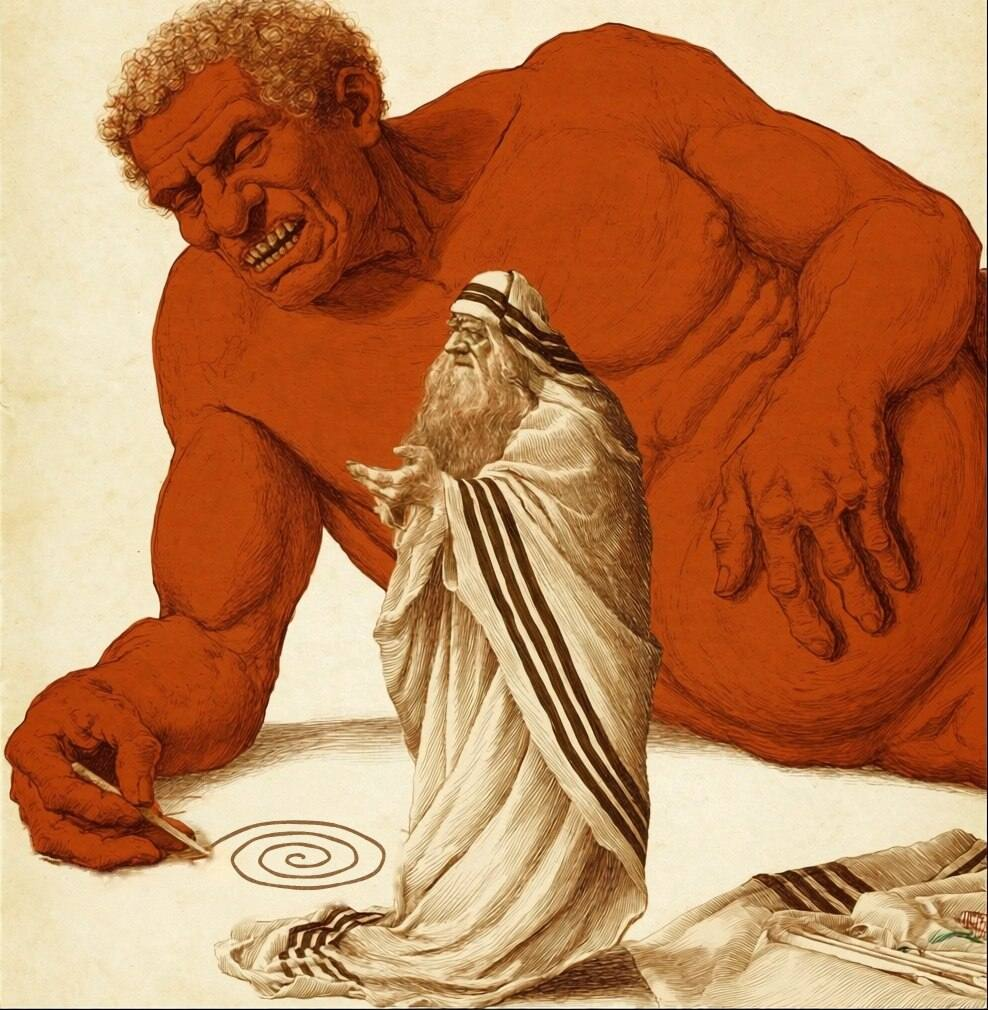
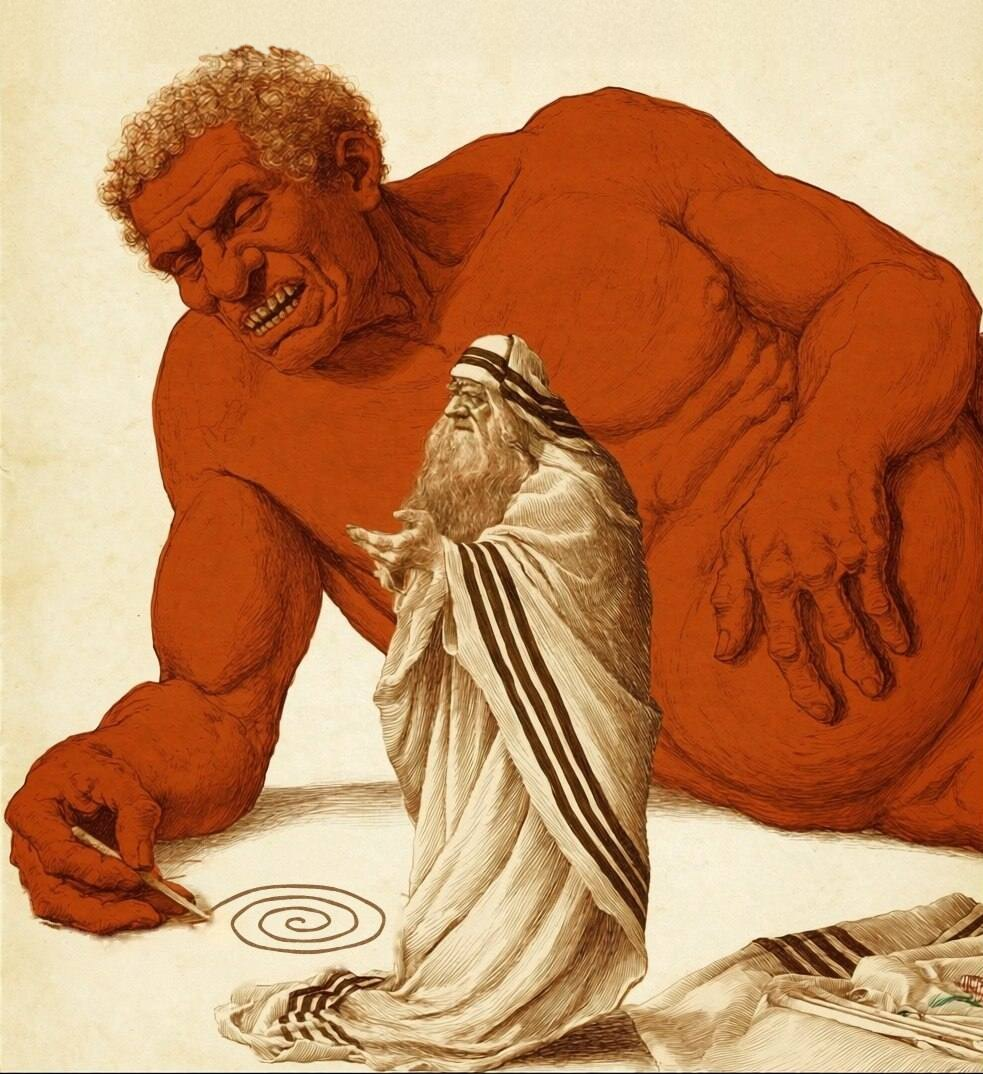
Главная гравюра: голова голема больше не обрезана
Сверху добавлено поле пергамента, макушка дорисована по текстуре волос.

Claude-Session: https://claude.ai/code/session_01JRCU95A7MTHzTJ1ZY1bebr

diff --git a/index.html b/index.html
@@ -46,7 +46,7 @@
     </div>
     <div class="page page--r hero-page">
       <a class="btn btn--sm hero-cta" href="kurs.html#zapis" data-transition>Записаться на поток</a>
-      <img class="hero-img" src="img/golem-spiral.jpg" alt="Голем чертит на полу архимедову спираль, рядом стоит раввин" width="988" height="1010">
+      <img class="hero-img" src="img/golem-spiral.jpg" alt="Голем чертит на полу архимедову спираль, рядом стоит раввин" width="983" height="1074">
     </div>
   </section>
 
